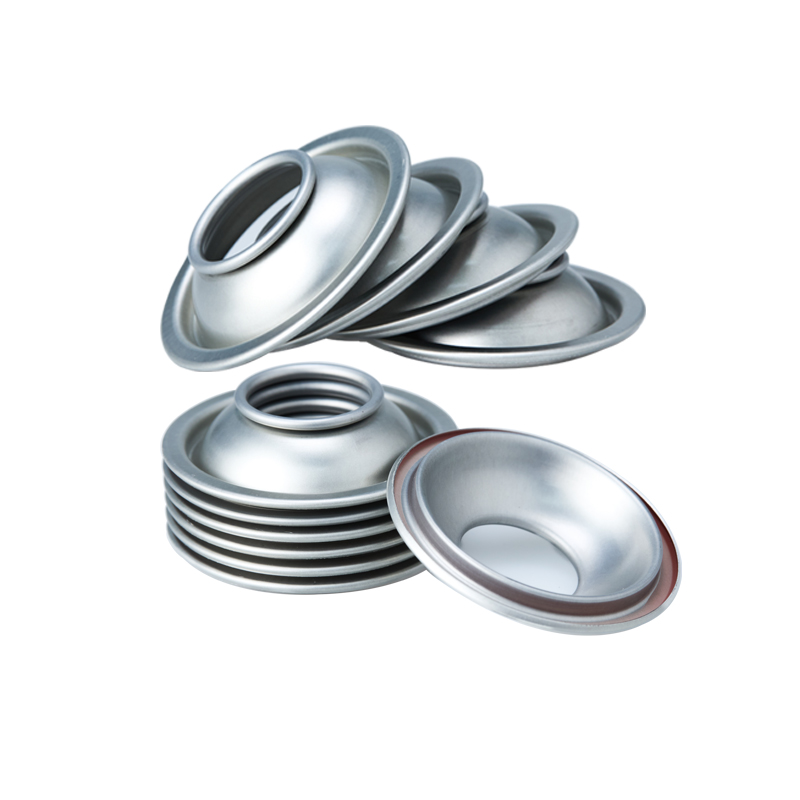
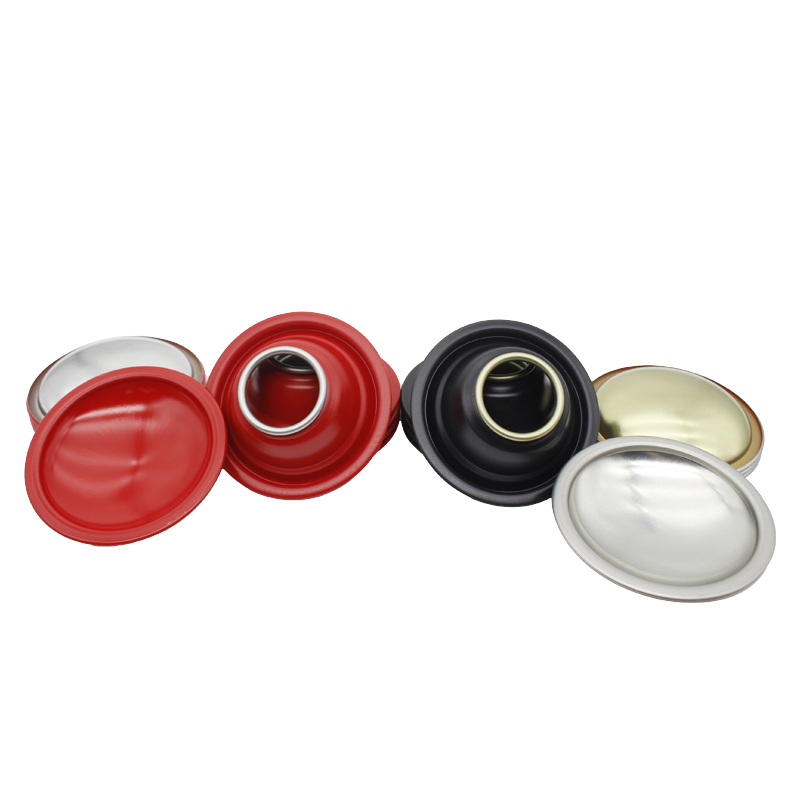
Fix product grid to 2x2 layout and update 52mm image

diff --git a/css/style.css b/css/style.css
@@ -578,9 +578,12 @@ h1, h2, h3, h4 {
 
 .products-grid {
     display: grid;
-    grid-template-columns: repeat(auto-fit, minmax(300px, 1fr));
+    grid-template-columns: repeat(2, 1fr);
     gap: 2rem;
     margin-top: 3rem;
+    max-width: 900px;
+    margin-left: auto;
+    margin-right: auto;
 }
 
 .product-card {
@@ -634,9 +637,11 @@ h1, h2, h3, h4 {
 }
 
 .product-img {
-    width: 180px;
-    height: auto;
+    width: 100%;
+    height: 100%;
+    object-fit: contain;
     z-index: 1;
+    padding: 20px;
 }
 
 .product-illustration {
@@ -1103,6 +1108,7 @@ h1, h2, h3, h4 {
 
     .products-grid {
         grid-template-columns: 1fr;
+        max-width: 400px;
     }
 
     .footer-content {
